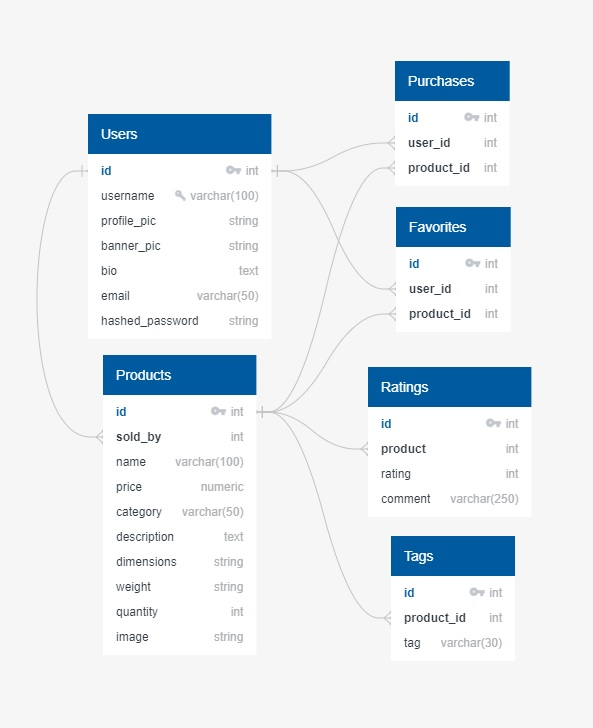
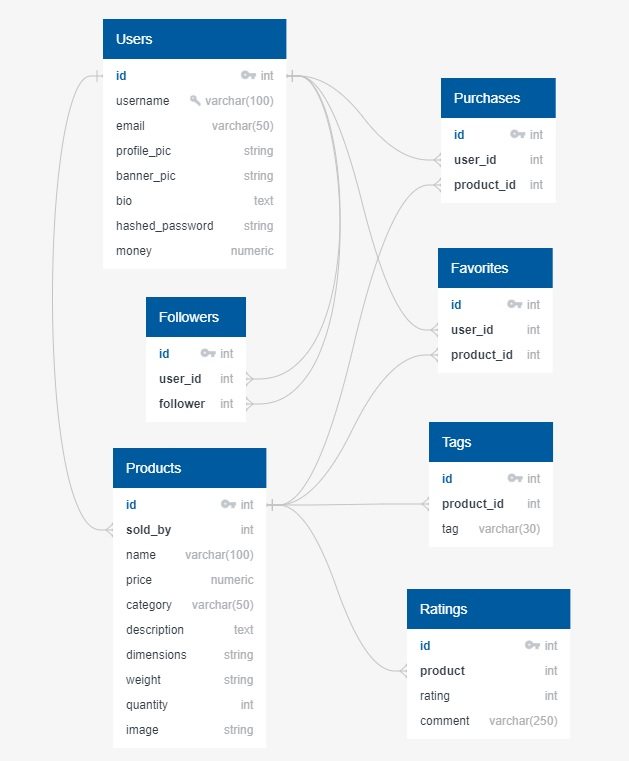
working on models

diff --git a/react-app/src/App.js b/react-app/src/App.js
@@ -44,7 +44,7 @@ function App() {
 				<input type="file" name="filename" onChange={handleChange} />
 				<button type="submit">Submit</button>
 			</form>
-			<img src="https://crafty-app.s3.us-east-2.amazonaws.com/da85db1ba47e4d798d464157293a1477.jpg" />
+			{/* <img src="https://crafty-app.s3.us-east-2.amazonaws.com/da85db1ba47e4d798d464157293a1477.jpg" /> */}
 		</>
 	);
 }

diff --git a/server/app/models/User.py b/server/app/models/User.py
@@ -1,0 +1,37 @@
+from .db import db
+from werkzeug.security import generate_password_hash, check_password_hash
+from flask_login import UserMixin
+
+
+class User(db.Model, UserMixin):
+    __tablename__ = 'users'
+
+    id = db.Column(db.Integer, primary_key=True)
+    username = db.Column(db.String(100), nullable=False, unique=True)
+    email = db.Column(db.String(50), nullable=False, unique=True)
+    hashed_password = db.Column(db.String(255), nullable=False)
+    profile_pic = db.Column(db.String(100))
+    banner = db.Column(db.String(100))
+    products = db.relationship('Product', back_populates='User')
+
+    @property
+    def password(self):
+        return self.hashed_password
+
+    @password.setter
+    def password(self, password):
+        self.hashed_password = generate_password_hash(password)
+
+    def check_password(self, password):
+        return check_password_hash(self.password, password)
+
+    def to_dict(self):
+        return {
+            "id": self.id,
+            "username": self.username,
+            "email": self.email,
+            "profile_pic": self.profile_pic,
+            "banner_pic": self.banner_pic,
+            "bio": self.bio,
+            "money": self.money
+        }

diff --git a/server/app/__init__.py b/server/app/__init__.py
@@ -22,7 +22,7 @@ def allowed_file(filename):
         filename.rsplit(".", 1)[1].lower() in ALLOWED_EXTENSIONS
 
 
-@app.route('/', methods=['GET', 'POST'])
+@app.route('/', methods=['POST'])
 def upload_file():
     if request.method == 'POST':
         if 'file' not in request.files:
@@ -45,10 +45,4 @@ def upload_file():
         # target = os.path.join(APP_ROOT, 'uploads')
         # destination = "/".join([target, filename])
         # file.save(destination)
-
-
-    # if request.method == 'GET':
-    #     for bucket in s3.buckets.all():
-    #         print(bucket.name)
-    #     # print(os.environ.get('S3_KEY'))
-    #     return 'test'
+    return "Upload Error"

diff --git a/server/app/models/Product.py b/server/app/models/Product.py
@@ -1,0 +1,16 @@
+from .db import db
+
+
+class Product(db.Model):
+    __tablename__ = 'products'
+
+    id = db.Column(db.Integer, primary_key=True)
+    sold_by = db.Column(db.Integer, db.ForeignKey('users.id'))
+    name = db.Column(db.String(100), nullable=False)
+    price = db.Column(db.Numeric, nullable=False)
+    category = db.Column(db.String(50), nullable=False)
+    description = db.Column(db.Text)
+    dimensions = db.Column(db.String(100))
+    weight = db.Column(db.String(40))
+    quantity = db.Column(db.Integer)
+    image = db.Column(db.String(100))

diff --git a/server/app/models/db.py b/server/app/models/db.py
@@ -1,0 +1,2 @@
+from flask_sqlalchemy import SQLAlchemy
+db = SQLAlchemy()

diff --git a/server/app/models/__init__.py b/server/app/models/__init__.py
@@ -1,0 +1,2 @@
+from .db import db
+from .User import User

diff --git a/design/dbdiagram.md b/design/dbdiagram.md
@@ -2,11 +2,12 @@ Users
 -
 id PK int
 username varchar(100) UNIQUE
+email varchar(50)
 profile_pic string
 banner_pic string
 bio text
-email varchar(50)
 hashed_password string
+money numeric
 
 Ratings
 -
@@ -45,3 +46,9 @@ Tags
 id pk int
 product_id int fk >- Products.id
 tag varchar(30)
+
+Followers
+-
+id int PK
+user_id int FK >- Users.id
+follower int FK >- Users.id
